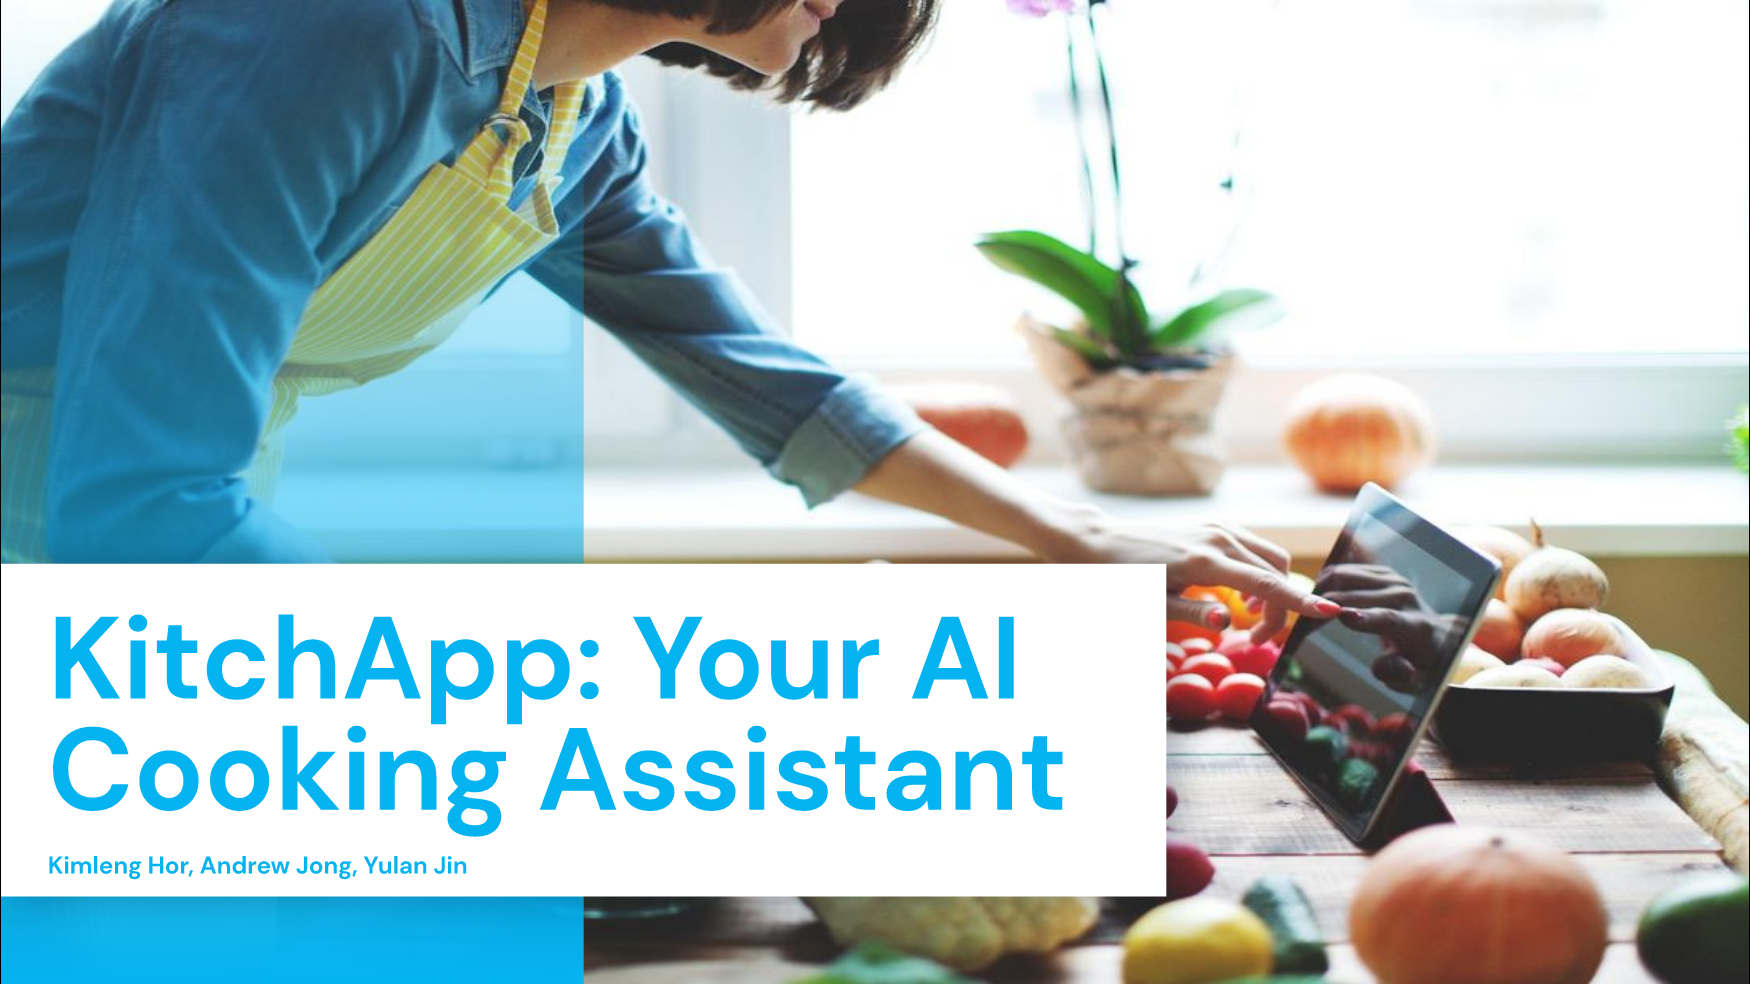
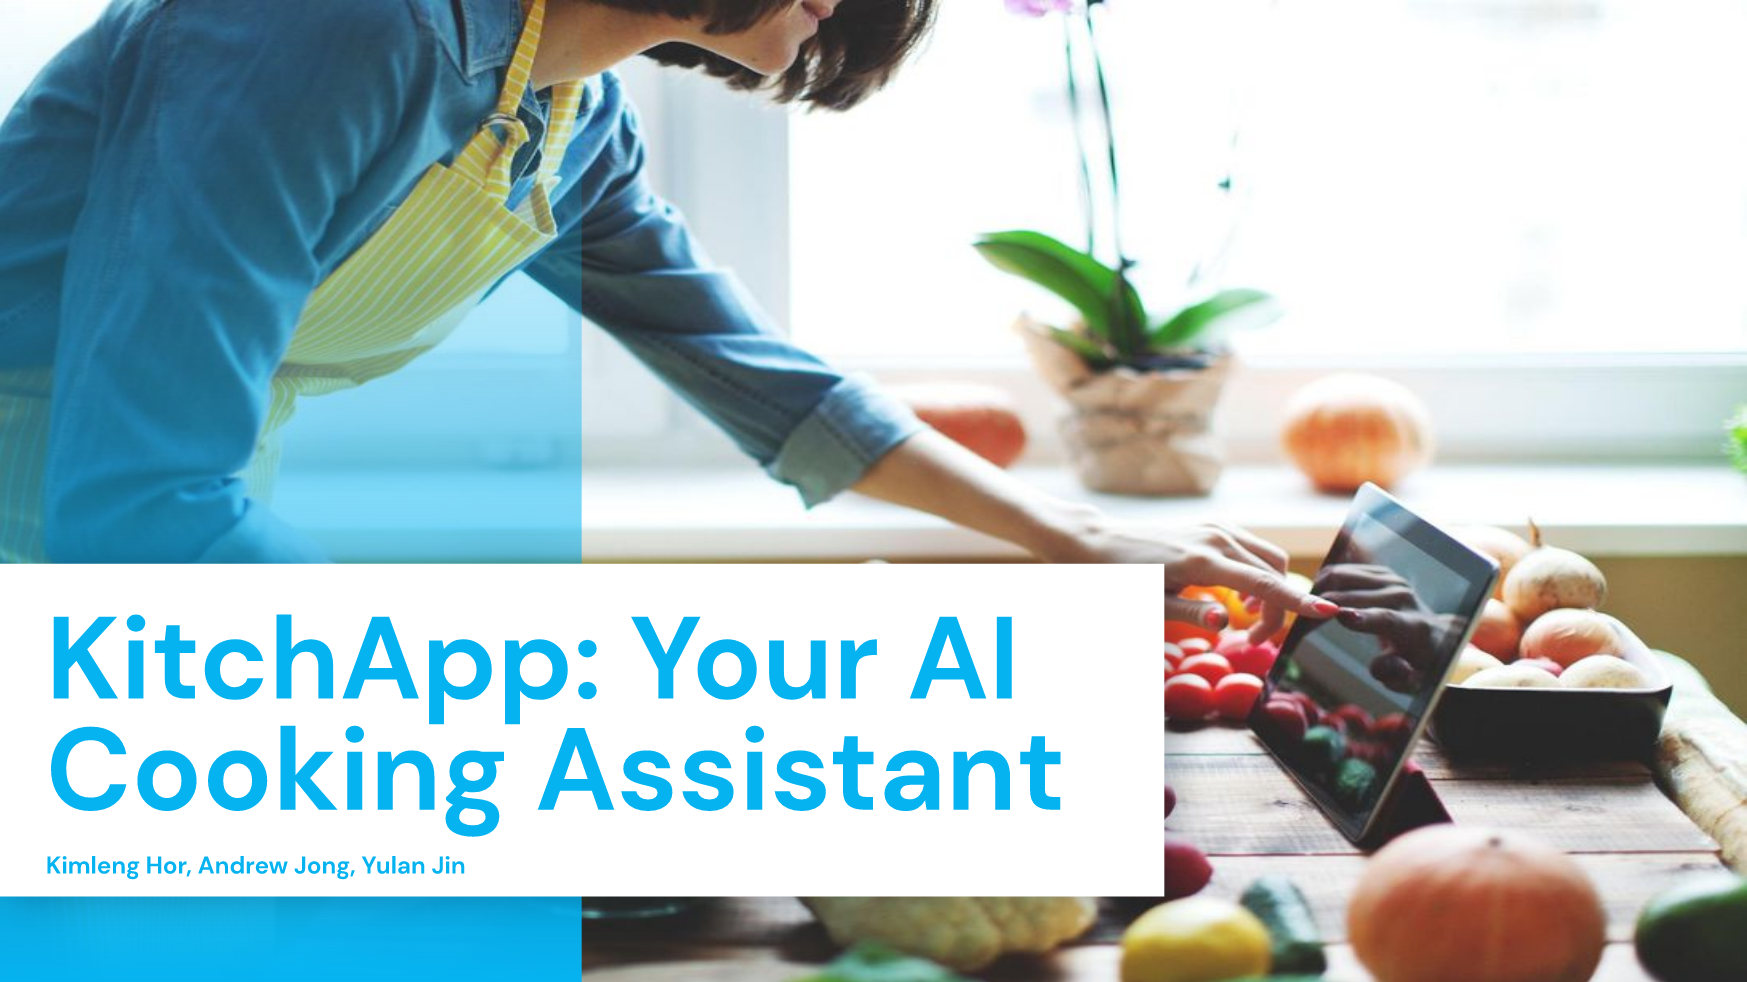
Fix image, open new tab link

diff --git a/README.md b/README.md
@@ -1,7 +1,7 @@
 # KitchApp
 AI that helps people cook. Machine Learning / Computer Vision project. Look at our [presentation](https://docs.google.com/presentation/d/1Y6iazmbMivtH0TH51ZRa1qjwMB7iyYltEVqyJWQKYVQ/present) to best understand our goals and progress so far.
 
-<a href="https://docs.google.com/presentation/d/1Y6iazmbMivtH0TH51ZRa1qjwMB7iyYltEVqyJWQKYVQ/present"><img src="media/kitchapp.png" width=500></a>
+<a href="https://docs.google.com/presentation/d/1Y6iazmbMivtH0TH51ZRa1qjwMB7iyYltEVqyJWQKYVQ/present" target="_blank"><img src="media/kitchapp.png" width=600></a>
 
 ## Proposal
 
